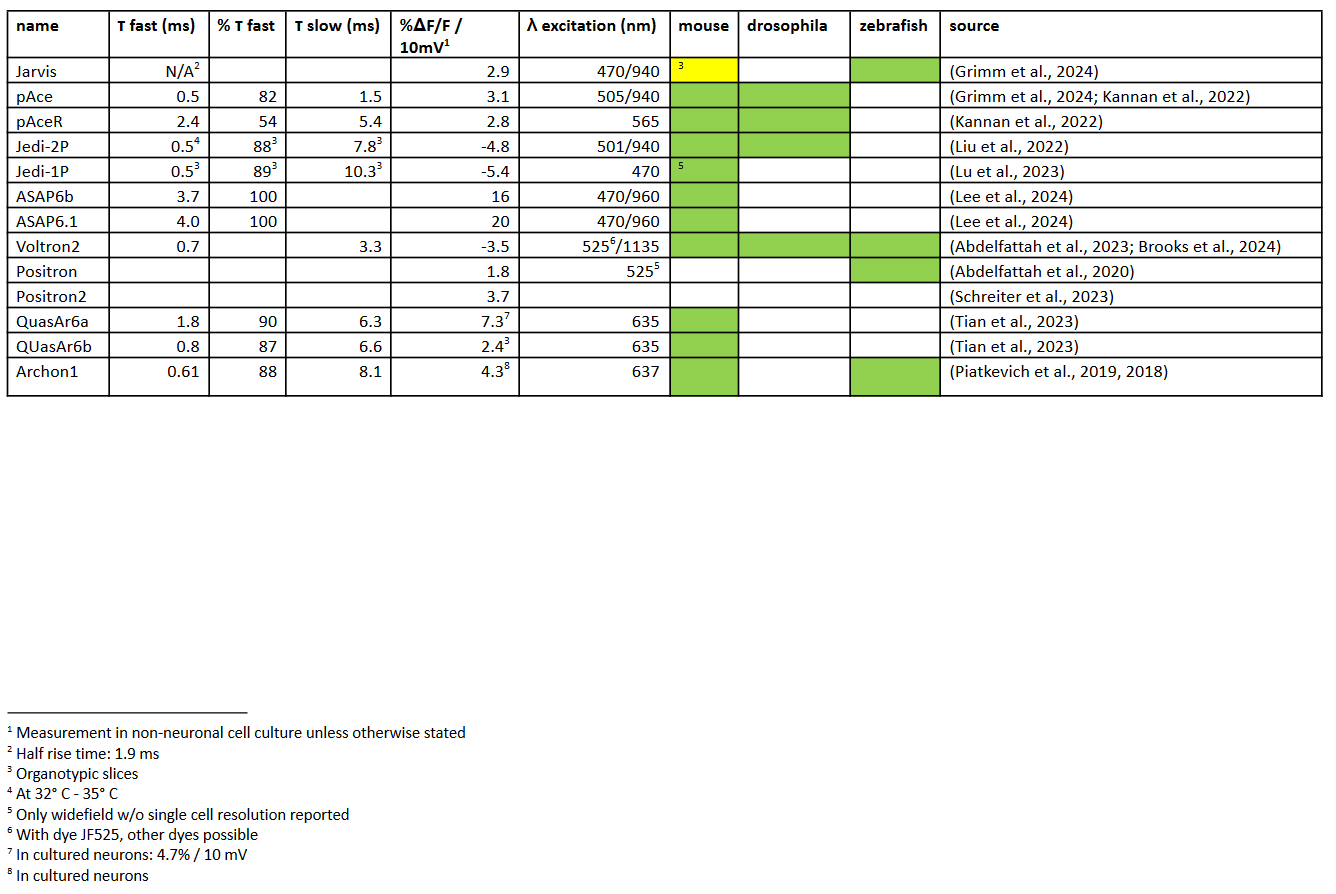
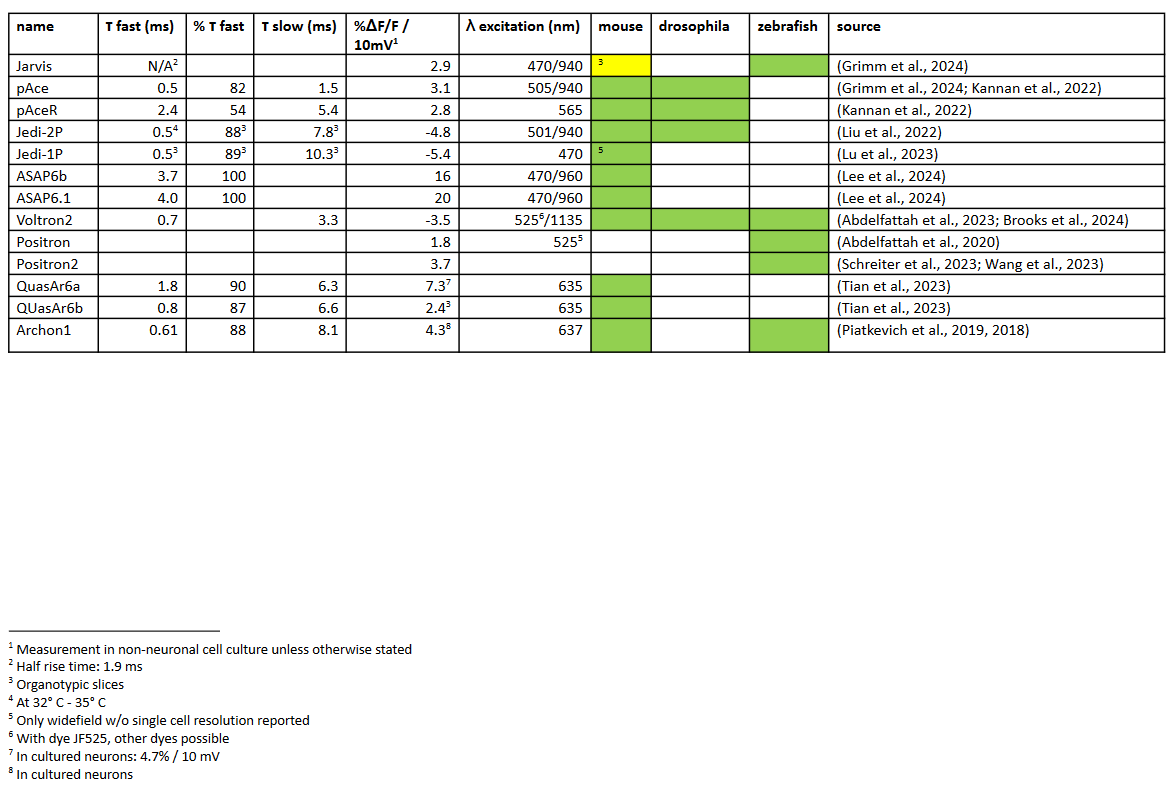
update

Changed region(s): [[0.0, 0.0, 1.0, 0.4511], [0.0, 0.782, 0.3673, 0.9925]]

diff --git a/README.md b/README.md
@@ -7,6 +7,40 @@ Soure table here: https://docs.google.com/document/d/1NZGYYdjyOe-s_cvU2B_BVHxEU2
 ![comparison_table](comparison_table2.png)
 
 
+Abdelfattah, A.S., Valenti, R., Zheng, J., Wong, A., Podgorski, K., Koyama, M., Kim, D.S., Schreiter, E.R., 2020. A general approach to engineer positive-going eFRET voltage
+indicators. Nat. Commun. 11, 3444. https://doi.org/10.1038/s41467-020-17322-1
+Abdelfattah, A.S., Zheng, J., Singh, A., Huang, Y.-C., Reep, D., Tsegaye, G., Tsang, A., Arthur, B.J., Rehorova, M., Olson, C.V.L., Shuai, Y., Zhang, L., Fu, T.-M., Milkie, D.E., Moya, M.V.,
+Weber, T.D., Lemire, A.L., Baker, C.A., Falco, N., Zheng, Q., Grimm, J.B., Yip, M.C., Walpita, D., Chase, M., Campagnola, L., Murphy, G.J., Wong, A.M., Forest, C.R., Mertz,
+J., Economo, M.N., Turner, G.C., Koyama, M., Lin, B.-J., Betzig, E., Novak, O., Lavis, L.D., Svoboda, K., Korff, W., Chen, T.-W., Schreiter, E.R., Hasseman, J.P., Kolb, I., 2023.
+Sensitivity optimization of a rhodopsin-based fluorescent voltage indicator. Neuron 111, 1547-1563.e9. https://doi.org/10.1016/j.neuron.2023.03.009
+Brooks, F.P., Davis, H.C., Park, P., Qi, Y., Cohen, A.E., 2024. Photophysics-informed two-photon voltage imaging using FRET-opsin voltage indicators.
+https://doi.org/10.1101/2024.04.01.587540
+Grimm, C., Sims, R.R., Tanese, D., Lafirdeen, A.S.M., Chan, C.Y., Faini, G., Putti, E., Bene, F.D., Papagiakoumou, E., Emiliani, V., 2024. Two-photon voltage imaging with
+rhodopsin-based sensors. https://doi.org/10.1101/2024.05.10.593541
+Kannan, M., Vasan, G., Haziza, S., Huang, C., Chrapkiewicz, R., Luo, J., Cardin, J.A., Schnitzer, M.J., Pieribone, V.A., 2022. Dual-polarity voltage imaging of the concurrent dynamics
+of multiple neuron types. Science 378, eabm8797. https://doi.org/10.1126/science.abm8797
+Lee, S., Zhang, G., Gomez, L.C., Testa-Silva, G., Hao, Y.A., Hiramoto, A., Jiang, D., Roth, R.H., Ding, J., Clandinin, T.R., Roska, B., Feldman, D., Ji, N., Lin, M.Z., 2024. Improving
+positively tuned voltage indicators for brightness and kinetics. https://doi.org/10.1101/2024.06.21.599617
+Liu, Z., Lu, X., Villette, V., Gou, Y., Colbert, K.L., Lai, S., Guan, S., Land, M.A., Lee, J., Assefa, T., Zollinger, D.R., Korympidou, M.M., Vlasits, A.L., Pang, M.M., Su, S., Cai, C.,
+Froudarakis, E., Zhou, N., Patel, S.S., Smith, C.L., Ayon, A., Bizouard, P., Bradley, J., Franke, K., Clandinin, T.R., Giovannucci, A., Tolias, A.S., Reimer, J., Dieudonné, S.,
+St-Pierre, F., 2022. Sustained deep-tissue voltage recording using a fast indicator evolved for two-photon microscopy. Cell 185, 3408-3425.e29.
+https://doi.org/10.1016/j.cell.2022.07.013
+Lu, X., Wang, Y., Liu, Z., Gou, Y., Jaeger, D., St-Pierre, F., 2023. Widefield imaging of rapid pan-cortical voltage dynamics with an indicator evolved for one-photon microscopy. Nat.
+Commun. 14, 6423. https://doi.org/10.1038/s41467-023-41975-3
+Piatkevich, K.D., Bensussen, S., Tseng, H., Shroff, S.N., Lopez-Huerta, V.G., Park, D., Jung, E.E., Shemesh, O.A., Straub, C., Gritton, H.J., Romano, M.F., Costa, E., Sabatini, B.L., Fu,
+Z., Boyden, E.S., Han, X., 2019. Population imaging of neural activity in awake behaving mice. Nature 574, 413–417. https://doi.org/10.1038/s41586-019-1641-1
+Piatkevich, K.D., Jung, E.E., Straub, C., Linghu, C., Park, D., Suk, H.-J., Hochbaum, D.R., Goodwin, D., Pnevmatikakis, E., Pak, N., Kawashima, T., Yang, C.-T., Rhoades, J.L., Shemesh,
+O., Asano, S., Yoon, Y.-G., Freifeld, L., Saulnier, J.L., Riegler, C., Engert, F., Hughes, T., Drobizhev, M., Szabo, B., Ahrens, M.B., Flavell, S.W., Sabatini, B.L., Boyden, E.S., 2018.
+A robotic multidimensional directed evolution approach applied to fluorescent voltage reporters. Nat. Chem. Biol. 14, 352–360.
+https://doi.org/10.1038/s41589-018-0004-9
+Schreiter, E.R., Abdelfattah, A., Hasseman, J., Reep, D., Tsegaye, G., Tsang, A., Kolb, I., Wong, A., Chuong, A., Zheng, J., Arthur, B., Korff, W., Team, G.P., 2023. Optimization of
+Ace2N based voltage indicators. https://doi.org/10.25378/janelia.22325446.v1
+Tian, H., Davis, H.C., Wong-Campos, J.D., Park, P., Fan, L.Z., Gmeiner, B., Begum, S., Werley, C.A., Borja, G.B., Upadhyay, H., Shah, H., Jacques, J., Qi, Y., Parot, V., Deisseroth, K.,
+Cohen, A.E., 2023. Video-based pooled screening yields improved far-red genetically encoded voltage indicators. Nat. Methods 1–13.
+https://doi.org/10.1038/s41592-022-01743-5
+Wang, Z., Zhang, J., Symvoulidis, P., Guo, W., Zhang, L., Wilson, M.A., Boyden, E.S., 2023. Imaging the voltage of neurons distributed across entire brains of larval zebrafish.
+https://doi.org/10.1101/2023.12.15.571964
+
 
 
 
